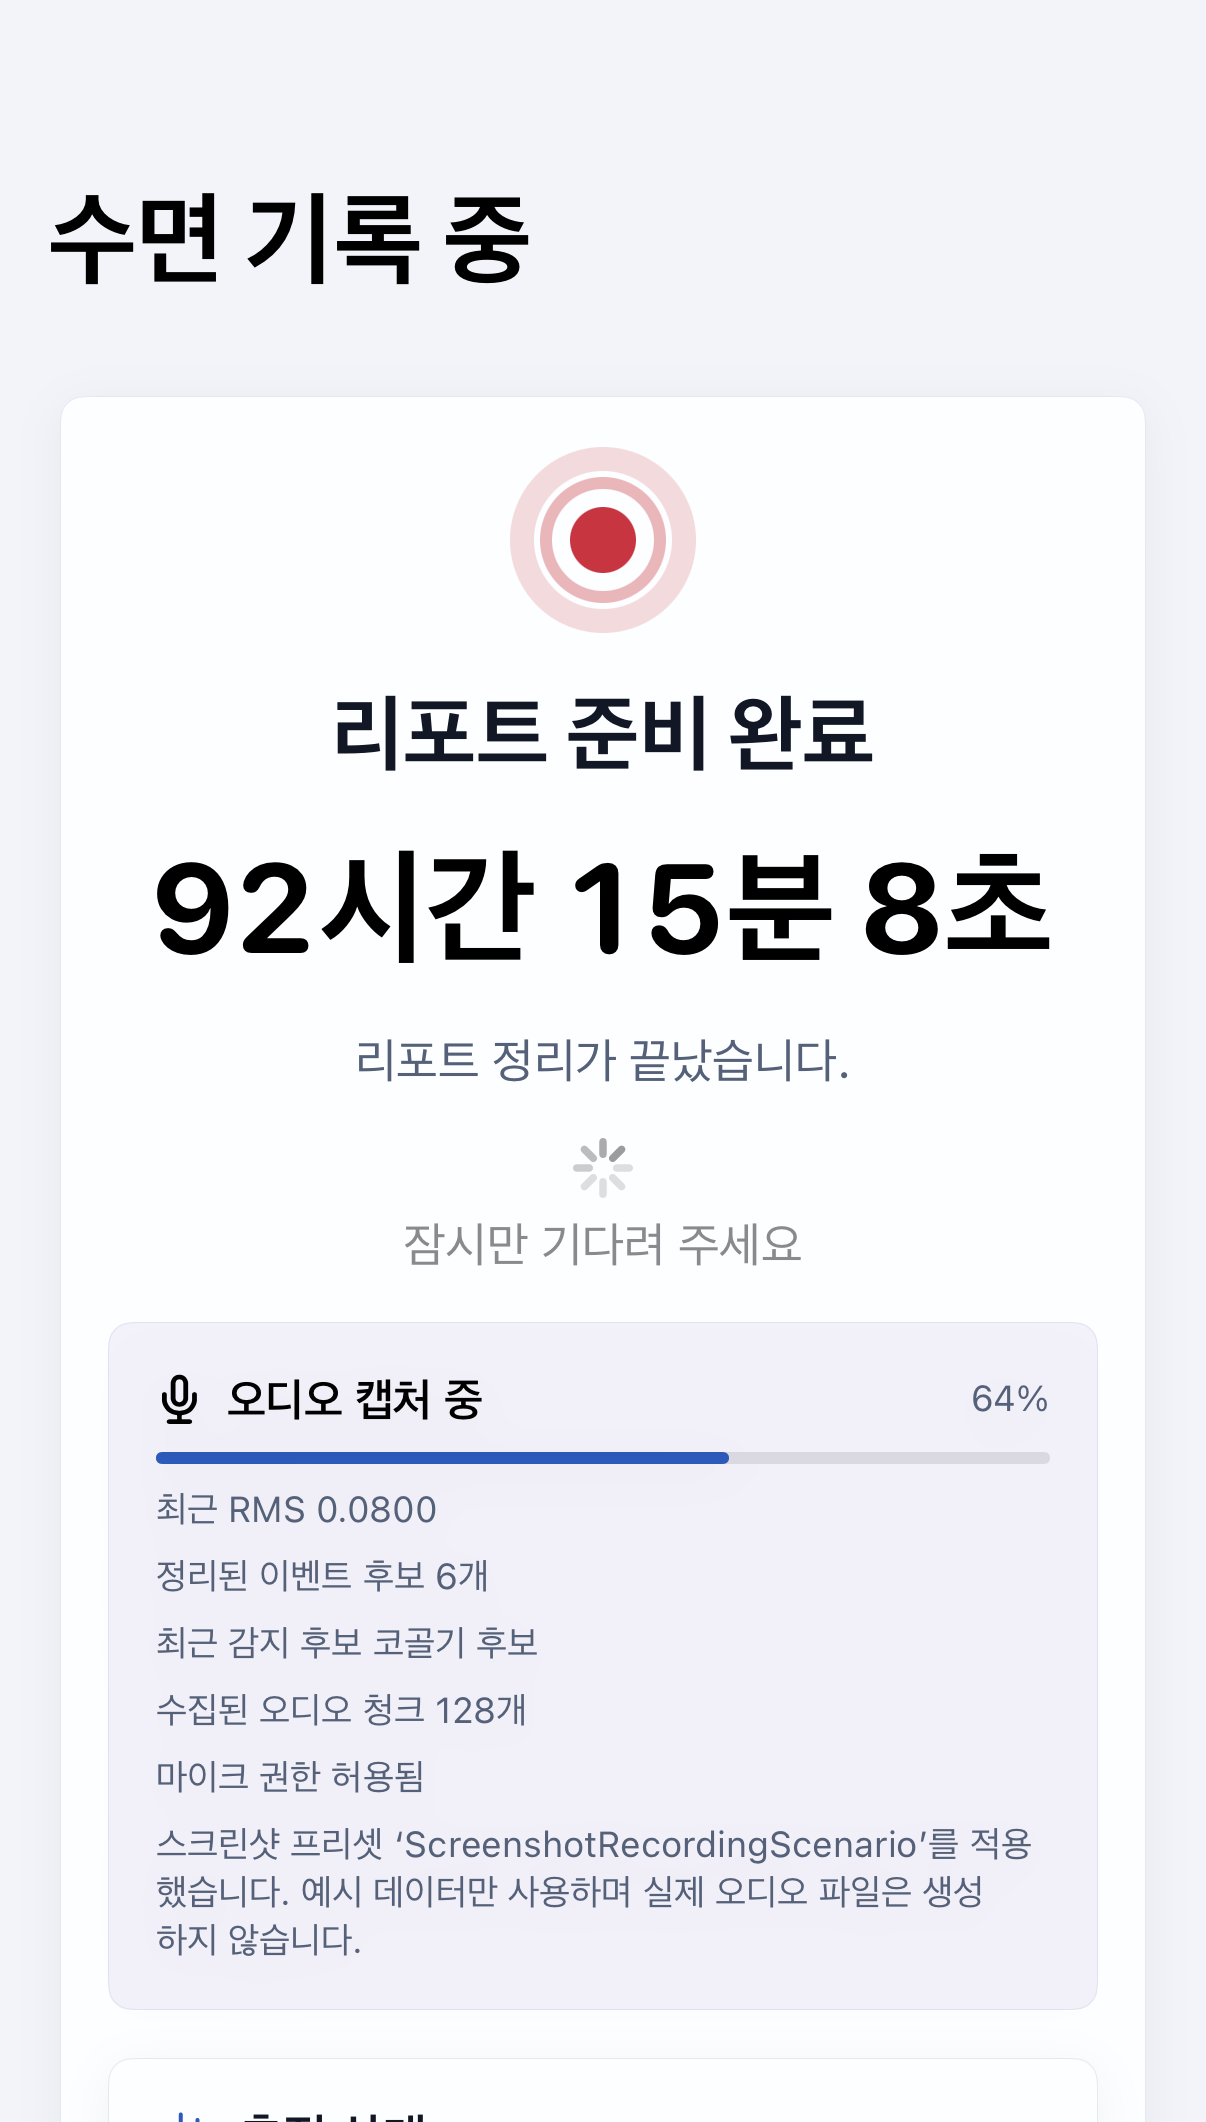
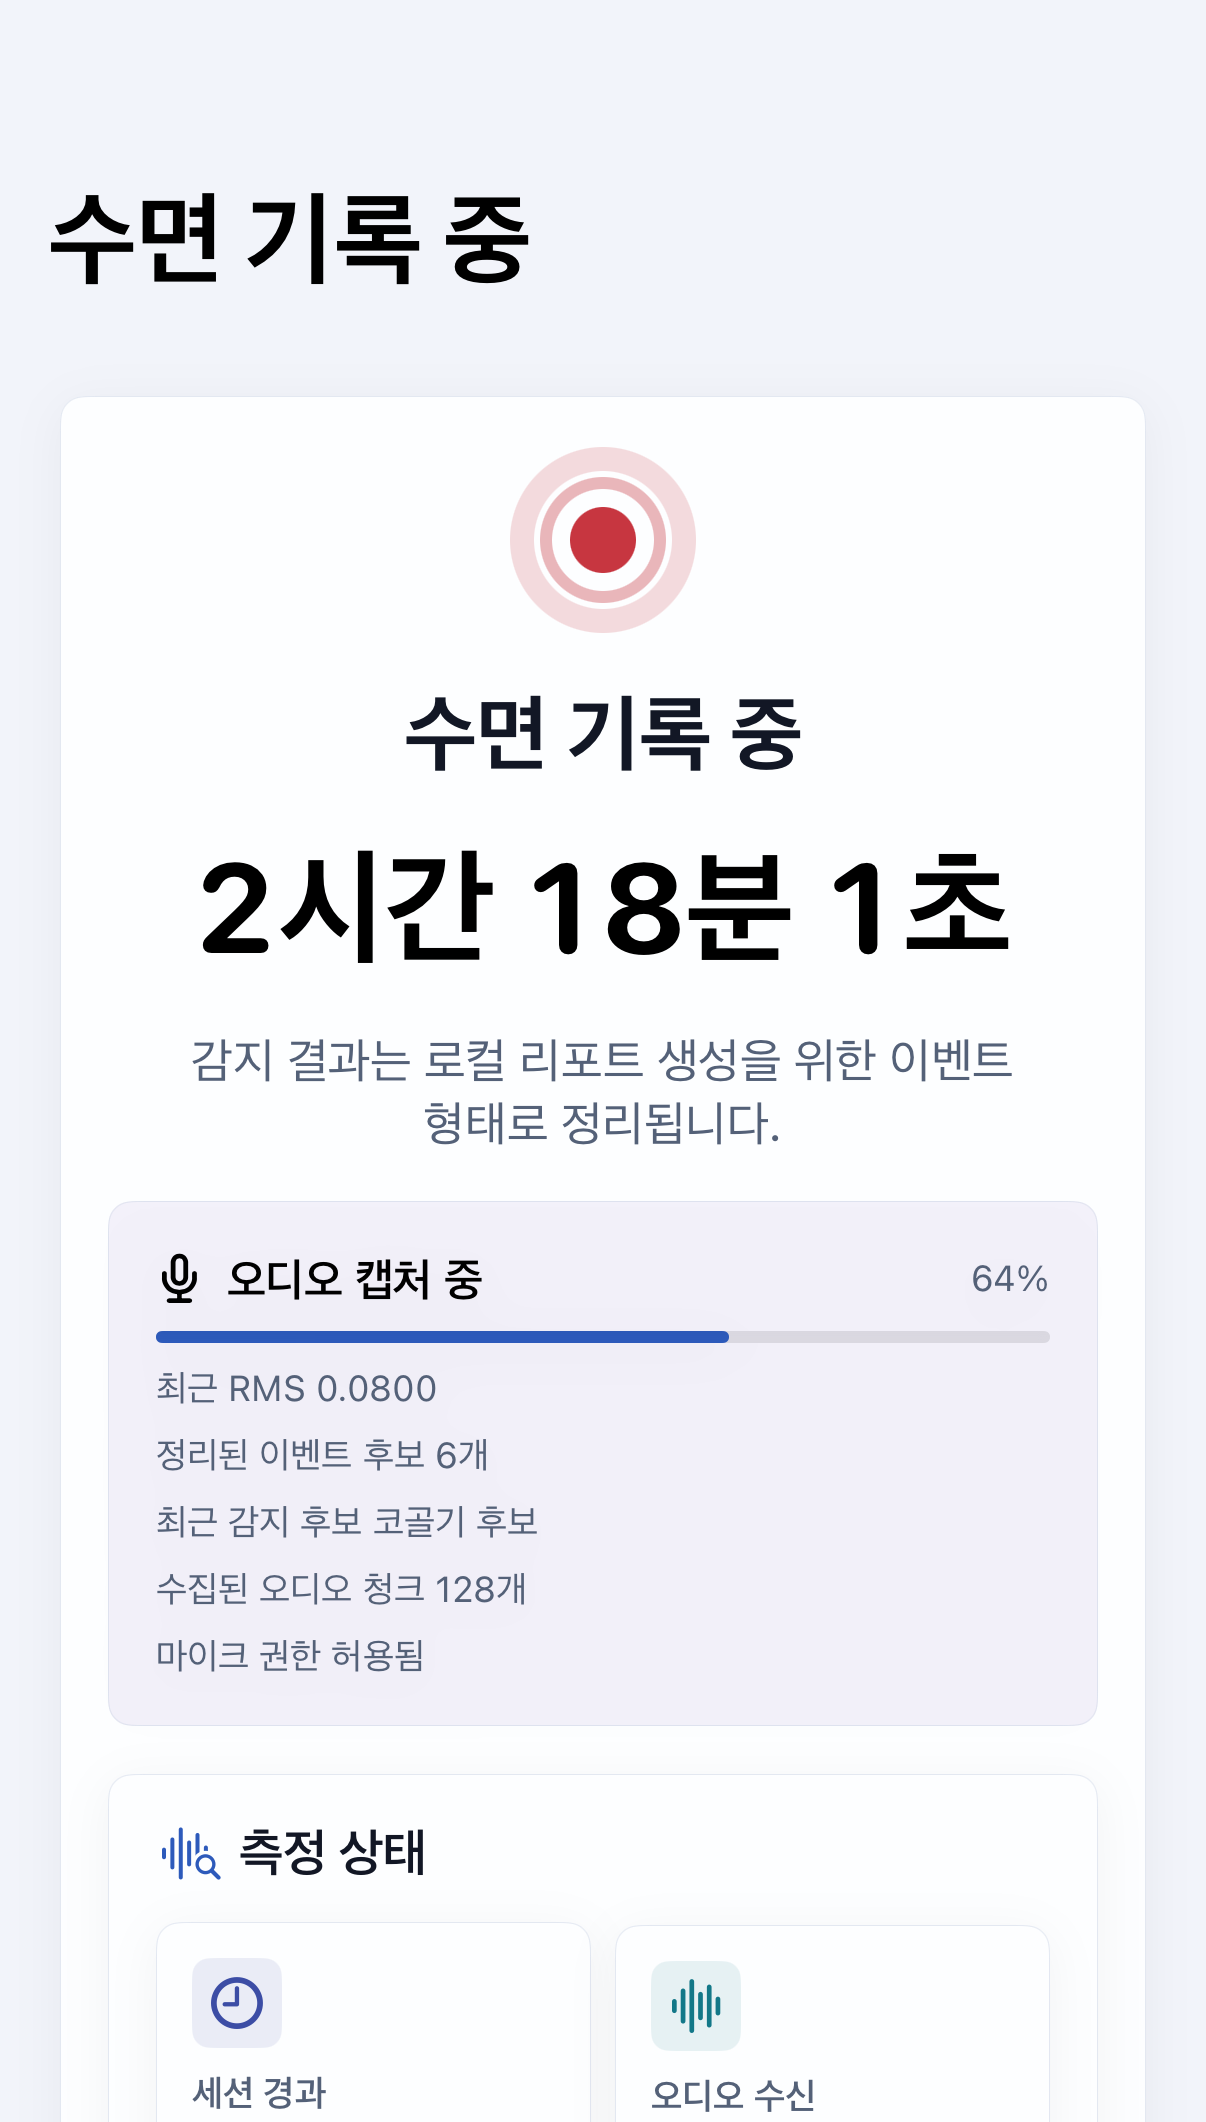
Approve sleep recording gallery screenshot

diff --git a/SleepSoundApp/App/AppState.swift b/SleepSoundApp/App/AppState.swift
@@ -419,9 +419,13 @@ final class AppState: ObservableObject {
             applyScreenshotRecordingState()
         }
 
-        audioCaptureMessage = surface.isAppStoreMarketing
-            ? "App Store 스크린샷 표면 ‘\(scenario.displayName)’를 적용했습니다. 실제 오디오 파일은 생성하지 않습니다."
-            : "스크린샷 프리셋 ‘\(scenario.displayName)’를 적용했습니다. 예시 데이터만 사용하며 실제 오디오 파일은 생성하지 않습니다."
+        if scenario == .sleepRecording {
+            audioCaptureMessage = nil
+        } else {
+            audioCaptureMessage = surface.isAppStoreMarketing
+                ? "App Store 스크린샷 표면 ‘\(scenario.displayName)’를 적용했습니다. 실제 오디오 파일은 생성하지 않습니다."
+                : "스크린샷 프리셋 ‘\(scenario.displayName)’를 적용했습니다. 예시 데이터만 사용하며 실제 오디오 파일은 생성하지 않습니다."
+        }
         eventAudioStorageMessage = surface.isAppStoreMarketing
             ? "App Store 스크린샷 저장소 상태입니다. 실제 파일은 생성하지 않습니다."
             : "스크린샷 프리셋 예시 저장소 상태입니다. 실제 파일은 생성하지 않습니다."
@@ -982,15 +986,19 @@ final class AppState: ObservableObject {
     #if DEBUG
     private func applyScreenshotRecordingState() {
         var session = latestSession
-        session.endedAt = nil
         session.measurementDuration = 2 * 60 * 60 + 18 * 60
+        let now = Date()
+        session.startedAt = now.addingTimeInterval(-session.measurementDuration)
+        session.estimatedSleepStart = session.startedAt.addingTimeInterval(18 * 60)
+        session.estimatedWakeTime = nil
+        session.endedAt = nil
 
-        let now = session.startedAt.addingTimeInterval(session.measurementDuration)
         let receivedAudioSeconds = session.measurementDuration * 0.97
         let analyzedAudioSeconds = session.measurementDuration * 0.965
 
         activeSession = session
         latestSession = session
+        sleepRecordingPhase = .recording
         audioCaptureState = .capturing(startedAt: session.startedAt)
         audioCaptureMetrics = AudioCaptureMetrics(
             captureStartedAt: session.startedAt,

diff --git a/Tests/SimulatorQAScenarioTests.swift b/Tests/SimulatorQAScenarioTests.swift
@@ -188,6 +188,7 @@ struct SimulatorQAScenarioTests {
     let manifest = try sourceContents("Docs/Screenshots/screenshot_status.tsv")
     let expectedReleaseScenarios = [
       ("trendDashboard", "ScreenshotTrendDashboardScenario", "TrendDashboardView()", "Docs/Screenshots/Home/trend-dashboard.png"),
+      ("sleepRecording", "ScreenshotRecordingScenario", "SleepRecordingView()", "Docs/Screenshots/Sleep/sleep_recording_light.png"),
       ("morningCheckIn", "ScreenshotMorningCheckInScenario", "MorningCheckInView(sessionId:", "Docs/Screenshots/Sleep/morning-check-in.png"),
       ("eveningCheckIn", "ScreenshotEveningCheckInScenario", "EveningCheckInView()", "Docs/Screenshots/DailyRhythm/evening-check-in.png"),
       ("dailyHealthCardExport", "ScreenshotDailyHealthCardExportScenario", "initialExportPreview: true", "Docs/Screenshots/DailyRhythm/daily-health-card-export-preview.png"),
@@ -242,9 +243,14 @@ struct SimulatorQAScenarioTests {
 
     #expect(appState.contains("func applyScreenshotScenario("))
     #expect(appState.contains("latestReportSource = surface.isAppStoreMarketing ? .deviceAnalysis : .sample"))
+    #expect(appState.contains("sleepRecordingPhase = .recording"))
+    #expect(appState.contains("session.startedAt = now.addingTimeInterval(-session.measurementDuration)"))
+    #expect(appState.contains("if scenario == .sleepRecording {\n            audioCaptureMessage = nil\n        }"))
     #expect(appState.contains("case .simulatorQA:\n            \"검증용 예시\""))
     #expect(!appState.contains("case .simulatorQA:\n            \"Simulator QA\""))
     #expect(screenshotScenarios.contains("state.latestReportSource = surface.isAppStoreMarketing ? .deviceAnalysis : .sample"))
+    #expect(screenshotScenarios.contains("state.sleepRecordingPhase = .recording"))
+    #expect(screenshotScenarios.contains("session.startedAt = now.addingTimeInterval(-session.measurementDuration)"))
   }
 
   private func sourceContents(_ relativePath: String) throws -> String {

diff --git a/Tests/UIGalleryDocumentationTests.swift b/Tests/UIGalleryDocumentationTests.swift
@@ -16,7 +16,7 @@ struct UIGalleryDocumentationTests {
     #expect(readme.contains("Docs/Screenshots/README/cropped/health_dashboard_light.png"))
     #expect(uiGallery.contains("Screenshot Quality Gate"))
     #expect(uiGallery.contains("captured, quality review pending"))
-    #expect(uiGallery.contains("blocked, recapture required"))
+    #expect(uiGallery.contains("release-approved"))
     #expect(uiGallery.contains("| README 대표 8개 | captured, quality review pending |"))
     #expect(uiGallery.contains("| App Store 후보 8개 | release-approved |"))
     #expect(uiGallery.contains("Health/Fitdays 문서 노출 가능 후보"))
@@ -242,7 +242,7 @@ struct UIGalleryDocumentationTests {
     #expect(privacyApprovedCount == 4)
     #expect(readmePreviewCount == 8)
     #expect(debugInternalCount >= 4)
-    #expect(releaseApprovedCount == 30)
+    #expect(releaseApprovedCount == 31)
   }
 
   @Test
@@ -331,6 +331,7 @@ struct UIGalleryDocumentationTests {
     #expect(visualReview.contains("appstore-home\t2026-05-09\tCodex\trelease-approved"))
     #expect(visualReview.contains("health-fitdays-result\t2026-05-09\tCodex\trelease-approved"))
     #expect(visualReview.contains("health-fitdays-error\t2026-05-09\tCodex\trelease-approved"))
+    #expect(visualReview.contains("sleep-recording\t2026-05-09\tCodex\trelease-approved"))
     #expect(visualReview.contains("edge-event-audio-off\t2026-05-09\tCodex\trelease-approved"))
     #expect(visualReview.contains("privacy-settings\t2026-05-09\tCodex\trelease-approved"))
     #expect(visualReview.contains("debug-simulator\t2026-05-09\tCodex\tinternal-only"))

diff --git a/SleepSoundApp/Features/ScreenshotScenarios.swift b/SleepSoundApp/Features/ScreenshotScenarios.swift
@@ -822,14 +822,18 @@ enum ScreenshotScenarioFactory {
 
   private static func applyRecordingState(to state: AppState) {
     var session = state.latestSession
-    session.endedAt = nil
     session.measurementDuration = 2 * 60 * 60 + 18 * 60
+    let now = Date()
+    session.startedAt = now.addingTimeInterval(-session.measurementDuration)
+    session.estimatedSleepStart = session.startedAt.addingTimeInterval(18 * 60)
+    session.estimatedWakeTime = nil
+    session.endedAt = nil
 
-    let now = session.startedAt.addingTimeInterval(session.measurementDuration)
     let receivedAudioSeconds = session.measurementDuration * 0.97
     let analyzedAudioSeconds = session.measurementDuration * 0.965
 
     state.activeSession = session
+    state.sleepRecordingPhase = .recording
     state.audioCaptureState = .capturing(startedAt: session.startedAt)
     state.audioCaptureMetrics = AudioCaptureMetrics(
       captureStartedAt: session.startedAt,

diff --git a/Docs/Release/RELEASE_READINESS_EVIDENCE.md b/Docs/Release/RELEASE_READINESS_EVIDENCE.md
@@ -9,9 +9,9 @@
 | README 대표 8장 | docs-preview-only | `Docs/Screenshots/screenshot_status.tsv`는 `captured, quality review pending`, `Docs/Screenshots/screenshot_visual_review.tsv`는 `docs-preview-only`로 유지 | README 문서 preview로만 사용, `release-approved` 승격 안 함 |
 | App Store 후보 8장 | simulator `release-approved` | raw/review crop contact sheet, `Docs/Screenshots/app_store_export_visual_review.tsv`, `REQUIRE_APP_STORE_RELEASE_APPROVED=1` hard gate | App Store Connect upload 화면에서 순서/crop/locale 최종 확인 |
 | Health/Fitdays gallery 11장 | UI Gallery 전용 `release-approved` | Health/Fitdays crop visual QA와 `screenshot_status.tsv` evidence | README/App Store 대표 이미지로는 사용하지 않음 |
-| Edge/Privacy/Support 11장 | UI Gallery 전용 `release-approved` | EdgeStates 7장, Privacy/Support 4장 visual QA와 `screenshot_status.tsv` evidence | DEBUG 화면과 `sleep-recording`은 계속 격리 |
+| Edge/Privacy/Support 11장 | UI Gallery 전용 `release-approved` | EdgeStates 7장, Privacy/Support 4장 visual QA와 `screenshot_status.tsv` evidence | DEBUG 화면은 계속 격리 |
 | DEBUG observability | internal-only | `Docs/Screenshots/Debug/` 후보는 `internal-only, quality review pending` | release-facing 문서에 렌더링하지 않음 |
-| Sleep recording | blocked | `sleep-recording`은 `blocked, recapture required` | 재캡처 전 문서 노출 금지 |
+| Sleep recording | UI Gallery 전용 `release-approved` | `sleep-recording` 재캡처 crop과 `screenshot_visual_review.tsv` visual QA evidence | README/App Store 대표 이미지로는 사용하지 않음 |
 
 ## App Store Copy Evidence
 
@@ -43,4 +43,4 @@
 
 ## Decision
 
-현재 simulator-first evidence 기준으로 App Store screenshot 후보 8장, Health/Fitdays gallery, Edge/Privacy/Support gallery는 각각 정해진 범위 안에서 승인 상태입니다. README 대표 8장은 프로젝트 소개용 문서 preview로 유지하며, App Store 제출 후보나 UI Gallery 승인 이미지로 승격하지 않습니다.
+현재 simulator-first evidence 기준으로 App Store screenshot 후보 8장, Health/Fitdays gallery, Sleep recording gallery, Edge/Privacy/Support gallery는 각각 정해진 범위 안에서 승인 상태입니다. README 대표 8장은 프로젝트 소개용 문서 preview로 유지하며, App Store 제출 후보나 UI Gallery 승인 이미지로 승격하지 않습니다.

diff --git a/Docs/Screenshots/VISUAL_QA_2026-05-09.md b/Docs/Screenshots/VISUAL_QA_2026-05-09.md
@@ -20,7 +20,7 @@
 | README 대표 screenshot 8개 | contact sheet 생성 및 crop visual QA 완료 | 문서 preview 유지, `release-approved` 승격 안 함 |
 | App Store raw 8개 | raw/review-cropped 재캡처, size별 export 88개, manifest/dimension QA 확인 | `release-approved` |
 | Health/Fitdays gallery 후보 | contact sheet에서 crop, chart/source badge, local import/privacy copy 확인 | UI Gallery 전용 `release-approved` |
-| Edge/Privacy/Support gallery 후보 | contact sheet에서 edge 상태, 개인정보, 온보딩/배치/캘리브레이션 crop 확인 | UI Gallery 전용 `release-approved`, DEBUG/sleep-recording은 계속 격리 |
+| Edge/Privacy/Support gallery 후보 | contact sheet에서 edge 상태, 개인정보, 온보딩/배치/캘리브레이션 crop 확인 | UI Gallery 전용 `release-approved`, DEBUG 화면은 계속 격리 |
 | Home tab bar 배경 | simulator raw App Store screenshot에서 하단 tab bar material과 content 겹침 선검증 | simulator 통과, 실기기 시각 증거 대기 |
 | Calibration 화면 | simulator crop에서 주요 문구/버튼 겹침 없음 | simulator 통과, 실기기 시각 증거 대기 |
 | Event audio storage off 화면 | simulator crop에서 OFF 상태와 privacy copy 확인 | simulator 통과, 실기기 시각 증거 대기 |
@@ -119,7 +119,7 @@
 
 계속 격리:
 
-- `sleep-recording`: 비현실적 duration/state mismatch를 고친 뒤 재캡처해야 합니다.
+- `sleep-recording`: active recording state, 현실적인 duration, 내부 scenario label 제거 상태로 재캡처해 UI Gallery 전용 release-approved로 승격했습니다.
 - DEBUG observability 화면: 개발 문서에서 경로만 추적하고 Release/README/App Store에는 렌더링하지 않습니다.
 
 ## 실기기 필요 UI

diff --git a/Docs/CURRENT_STATUS.md b/Docs/CURRENT_STATUS.md
@@ -32,7 +32,7 @@ README 대표 screenshot 8개 contact sheet visual QA, App Store raw 8개 재캡
 - README 대표 8개는 문서 preview로 유지하고 `release-approved`로 승격하지 않았습니다.
 - App Store raw 8개와 review-cropped 이미지를 재캡처하고, size별 export 88개 dimension QA와 release approval hard gate를 통과했습니다.
 - Health/Fitdays gallery 후보 중 문서 노출 가능한 항목은 UI Gallery 전용 `release-approved`로 승격했고, `health-fitdays-result`도 공개용 copy 재캡처 기준으로 승인했습니다.
-- Edge/Privacy/Support gallery 후보는 simulator crop 기준으로 문서 노출 가능 항목을 UI Gallery 전용 `release-approved`로 분류했습니다. DEBUG 화면과 `sleep-recording`은 계속 격리합니다.
+- Edge/Privacy/Support gallery 후보는 simulator crop 기준으로 문서 노출 가능 항목을 UI Gallery 전용 `release-approved`로 분류했습니다. `sleep-recording`도 active recording state로 재캡처해 UI Gallery 전용 `release-approved`로 승격했습니다. DEBUG 화면은 계속 격리합니다.
 - README 대표 8장, App Store 후보 8장, Health/Fitdays/Edge/Privacy/Support gallery, App Store Connect pending 항목은 `Docs/Release/RELEASE_READINESS_EVIDENCE.md`에 한 장으로 묶었습니다.
 - `Tools/UI/validate_navigation_chrome.sh`를 tab/back 정책뿐 아니라 주요 루트 CTA와 screenshot scenario destination smoke까지 확인하도록 확장했습니다.
 - Calibration과 Event audio storage off support screenshot을 simulator에서 재캡처/검수했습니다.

diff --git a/Docs/NEXT_ISSUES.md b/Docs/NEXT_ISSUES.md
@@ -178,7 +178,7 @@
 - README screenshot은 2026-05-09 기준 문서 preview 유지로 판정했습니다. release-approved 승격은 하지 않습니다.
 - Health Calendar, Daily Measurement Detail, Metric Detail, Fitdays Import 대표 screenshot은 UI Gallery 전용 release-approved로 승격했습니다. README/App Store 대표 이미지로는 사용하지 않습니다.
 - PrivacySettings, zero-event, low-coverage, event audio storage off, health permission empty, metric detail empty, cross metric insufficient, onboarding/device/calibration, report empty는 UI Gallery 전용 release-approved로 승격했습니다.
-- SleepRecording은 재캡처 전까지 blocked 상태로 유지합니다.
+- SleepRecording은 active recording state로 재캡처했고 UI Gallery 전용 release-approved로 승격했습니다.
 - DEBUG replay/audio/sample capture/detector/simulator scenario screenshot은 internal-only로 유지합니다.
 - App Store raw/review-cropped 후보 8개는 2026-05-09에 재캡처, contact sheet visual QA, 88개 export dimension QA, hard gate를 통과해 release-approved입니다.
 - `Docs/UI_GALLERY.md`는 품질 gate 전까지 screenshot image markdown을 만들지 않으며, regression test로 quarantine 상태를 확인합니다.
